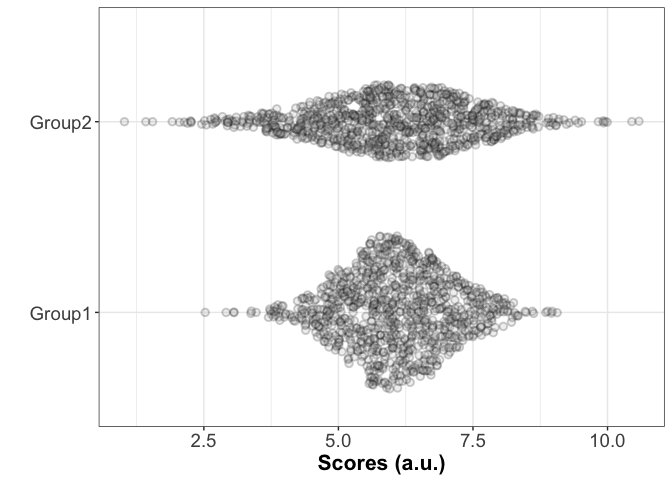
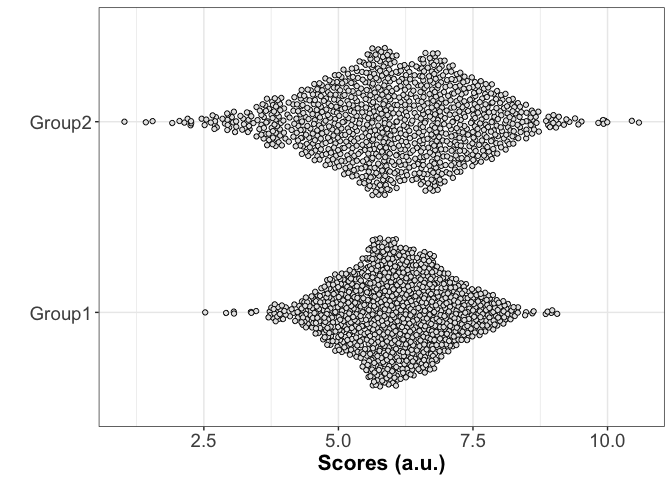
update README

Changed region(s): [[0.1875, 0.0938, 0.9062, 0.4062], [0.2812, 0.4688, 0.8438, 0.8438], [0.9375, 0.25, 0.9688, 0.2812]]

diff --git a/README.md b/README.md
@@ -22,9 +22,11 @@ The approach behind the package is described here:
 
 [Modern graphical methods to compare two groups of observations](https://figshare.com/articles/Modern_graphical_methods_to_compare_two_groups_of_observations/4055970)
 
+The second reference contains extensive examples using `rogme`.
+
 `rogme` uses `ggplot2` for graphical representations, and the main statistical functions were developed by Rand Wilcox, as part of his [`WRS`](https://dornsife.usc.edu/labs/rwilcox/software/) package.
 
-The main tool in `rogme` is the shift function. A shift function shows the difference between the quantiles of two groups as a function of the quantiles of one group. For inferences, the function returns an uncertainty interval for each quantile difference. Currently, confidence intervals are computed using one of two percentile bootstrap techniques. Highest density intervals and [Bayesian bootstrap](https://github.com/rasmusab/bayesboot) intervals will be available soon.
+The main tool in `rogme` is the [shift function](https://garstats.wordpress.com/2016/07/12/shift-function/). A shift function shows the difference between the quantiles of two groups as a function of the quantiles of one group. For inferences, the function returns an uncertainty interval for each quantile difference. Currently, confidence intervals are computed using one of two percentile bootstrap techniques. Highest density intervals and [Bayesian bootstrap](https://github.com/rasmusab/bayesboot) intervals will be available eventually.
 
 Shift function demo
 -------------------
@@ -49,7 +51,11 @@ First, we generate the 1D scatterplots for the two groups.
 #> scatterplots alone
 ps <- plot_scat2(df,
                  xlabel = "",
-                 ylabel = "Scores (a.u.)")
+                 ylabel = "Scores (a.u.)",
+                 alpha = 1,
+                 shape = 21,
+                 colour = "grey10",
+                 fill = "grey90") # scatterplots
 ps <- ps + coord_flip()
 ps
 ```
@@ -83,19 +89,17 @@ Third, we make 1D scatterplots with deciles and colour coded differences.
 p <- plot_scat2(df,
                 xlabel = "",
                 ylabel = "Scores (a.u.)",
-                symb_alpha = .5,
-                symb_col = c("grey70","grey70"),
-                symb_fil = c("grey90","grey90")) # scatterplots
-
-p <- plot_dec_links(p, 
-                    sf = sf,
+                alpha = .3,
+                shape = 21,
+                colour = "grey10",
+                fill = "grey90") # scatterplots
+p <- plot_dec_links(p, sf,
                     dec_size = 1,
                     md_size = 1.5,
                     add_rect = TRUE,
                     rect_alpha = 0.1,
                     rect_col = "grey50",
                     add_lab = TRUE) # superimposed deciles + rectangle
-
 p <- p + coord_flip() # flip axes
 p
 ```
@@ -111,3 +115,11 @@ cowplot::plot_grid(ps, p, psf, labels=c("A", "B", "C"), ncol = 1, nrow = 3,
 ```
 
 ![](README-files/README-unnamed-chunk-7-1.png)
+
+**Panel A** illustrates two distributions, both n = 1000, that differ in spread. The observations in the scatterplots were jittered based on their local density, as implemented in `ggbeeswarm::geom_quasirandom`.
+
+**Panel B** illustrates the same data from panel A. The dark vertical lines mark the deciles of the distributions. The thicker vertical line in each distribution is the median. Between distributions, the matching deciles are joined by coloured lined. If the decile difference between group 1 and group 2 is positive, the line is orange; if it is negative, the line is purple. The values of the differences for deciles 1 and 9 are indicated in the superimposed labels.
+
+**Panel C** focuses on the portion of the x-axis marked by the grey shaded area at the bottom of panel B. It shows the deciles of group 1 on the x-axis – the same values that are shown for group 1 in panel B. The y-axis shows the differences between deciles: the difference is large and positive for decile 1; it then progressively decreases to reach almost zero for decile 5 (the median); it becomes progressively more negative for higher deciles. Thus, for each decile the shift function illustrates by how much one distribution needs to be shifted to match another one. In our example, we illustrate by how much we need to shift deciles from group 2 to match deciles from group 1.
+
+More generally, a shift function shows quantile differences as a function of quantiles in one group. It estimates how and by how much two distributions differ. It is thus a powerful alternative to the traditional t-test on means, which focuses on only one, non-robust, quantity. Quantiles are robust, intuitive and informative.
